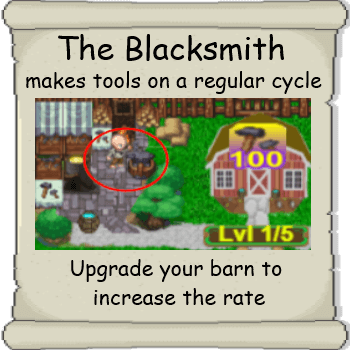
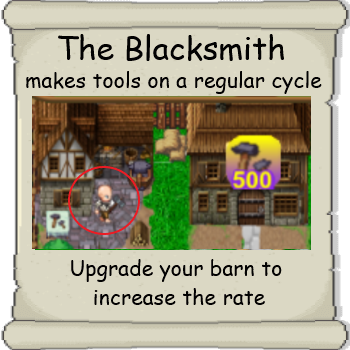
update tools to 1500

diff --git a/www/farming_NewMenu.js b/www/farming_NewMenu.js
@@ -3006,8 +3006,9 @@ farming.start = function () {
     goog.events.listen(barnUnlock3, ["mousedown", "touchstart"], function () {                 //barnUpgrades    barn Upgrades
         
         var barnUpgradeCost = 0;
-        if (player.barnLevel == 2 || player.barnLevel == 3) { barnUpgradeCost = 250; }
-        else if (player.barnLevel == 4) { barnUpgradeCost = 500; }
+        if (player.barnLevel == 2) { barnUpgradeCost = 250; }
+        else if (player.barnLevel == 3) { barnUpgradeCost = 500; }
+        else if (player.barnLevel == 4) { barnUpgradeCost = 1500; }
         else { barnUpgradeCost = 100; }
       
         if (player.tools >= barnUpgradeCost && parseInt(player.barnLevel) < 5 && globalModalBlock == 0) {
@@ -3078,8 +3079,9 @@ farming.start = function () {
                     checkAchieves2();
                 }, 2000);
 
-                if (player.barnLevel == 2 || player.barnLevel == 3) { barnUnlock3.setFill("images/tools250.png"); }
-                else if (player.barnLevel == 4) { barnUnlock3.setFill("images/tools500.png"); }
+                if (player.barnLevel == 2) { barnUnlock3.setFill("images/tools250.png"); }
+                else if (player.barnLevel == 3) { barnUnlock3.setFill("images/tools500.png"); }
+                else if (player.barnLevel == 4) { barnUnlock3.setFill("images/tools1500.png"); }
                 else { barnUnlock3.setFill("images/tools100.png"); };
             }, 60000);
 
@@ -7173,7 +7175,7 @@ farming.start = function () {
     // room 2 block
     var houseExpandCover = (new lime.GlossyButton).setColor("#B5B6B7").setAnchorPoint(0.0).setPosition(155, 220).setSize(a.width - 15, 177).setText("Build More Room").setOpacity(0.8);
     houseLayer.appendChild(houseExpandCover); 
-    var expandToolsImg = (new lime.Sprite).setAnchorPoint(0, 0).setPosition(-15, 10).setSize(35, 35).setFill("images/tools500.png");
+    var expandToolsImg = (new lime.Sprite).setAnchorPoint(0, 0).setPosition(-25, 10).setSize(45, 60).setFill("images/tools1500.png");
     houseExpandCover.appendChild(expandToolsImg); 
     var scaffoldHo = (new lime.Sprite).setAnchorPoint(0, 0).setPosition(-125,-85).setSize(a.width - 75, 150).setFill("images/scaffold.png"); houseExpandCover.appendChild(scaffoldHo);
 
@@ -7191,9 +7193,9 @@ farming.start = function () {
     var expandOnce = 0;
     goog.events.listen(houseExpandCover, ["mousedown", "touchstart"], function () {
 
-        if (player.tools >= 500 && expandOnce == 0) {
+        if (player.tools >= 1500 && expandOnce == 0) {
             expandOnce = 1;
-            player.tools -= 500;
+            player.tools -= 1500;
             a.updateTools();
             toolCountHouse.setText(player.tools)
             toolMoverLabelHo.setHidden(false); scaffoldHo.setHidden(false); upgradeCloudHo.setHidden(false);
@@ -7239,6 +7241,13 @@ farming.start = function () {
 
             }, this, 250, 360)
                                
+        }
+        else {
+            houseExpandCover.setText("Need 1500 Tools");
+            lime.scheduleManager.scheduleWithDelay(function () {
+                houseExpandCover.setText("Build More Room");
+
+            }, this, 1500)
         }
     });
 
